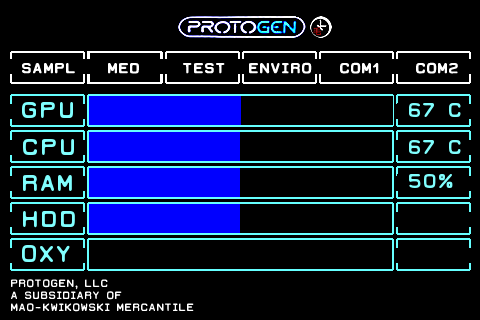
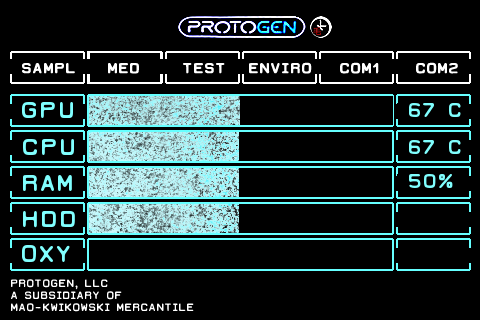
use image for progress bar
add ability to use an image instead of a solid color for the progress bar by swapping img and rgb render position

Changed region(s): [[0.1875, 0.2812, 0.5, 0.75]]

diff --git a/library/lcd/lcd_comm.py b/library/lcd/lcd_comm.py
@@ -295,6 +295,7 @@ class LcdComm(ABC):
                            bar_color: Tuple[int, int, int] = (0, 0, 0),
                            bar_outline: bool = True,
                            background_color: Tuple[int, int, int] = (255, 255, 255),
+                           background_swap: bool = False,
                            background_image: str = None):
         # Generate a progress bar and display it
         # Provide the background image path to display progress bar with transparent background
@@ -333,7 +334,11 @@ class LcdComm(ABC):
         if bar_filled_width < 0:
             bar_filled_width = 0
         draw = ImageDraw.Draw(bar_image)
-        draw.rectangle([0, 0, bar_filled_width, height - 1], fill=bar_color, outline=bar_color)
+        if background_swap:
+            # Use the background image instead of the RGB fill
+            draw.rectangle([bar_filled_width, 0, width - 1, height - 1], fill=bar_color, outline=bar_color)
+        else:
+            draw.rectangle([0, 0, bar_filled_width, height - 1], fill=bar_color, outline=bar_color)
 
         if bar_outline:
             # Draw outline

diff --git a/library/stats.py b/library/stats.py
@@ -148,6 +148,7 @@ def display_themed_progress_bar(theme_data, value):
         bar_color=theme_data.get("BAR_COLOR", (0, 0, 0)),
         bar_outline=theme_data.get("BAR_OUTLINE", False),
         background_color=theme_data.get("BACKGROUND_COLOR", (255, 255, 255)),
+        background_swap=theme_data.get("BACKGROUND_SWAP", False),
         background_image=get_theme_file_path(theme_data.get("BACKGROUND_IMAGE", None))
     )
 
